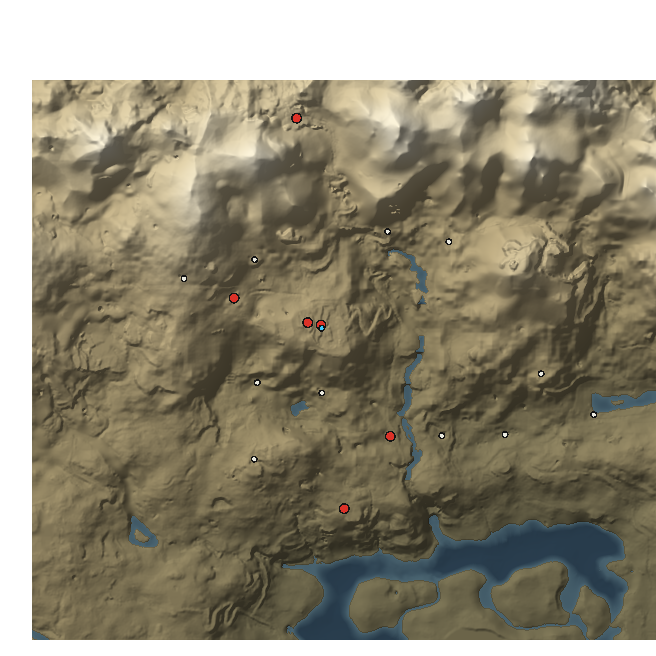
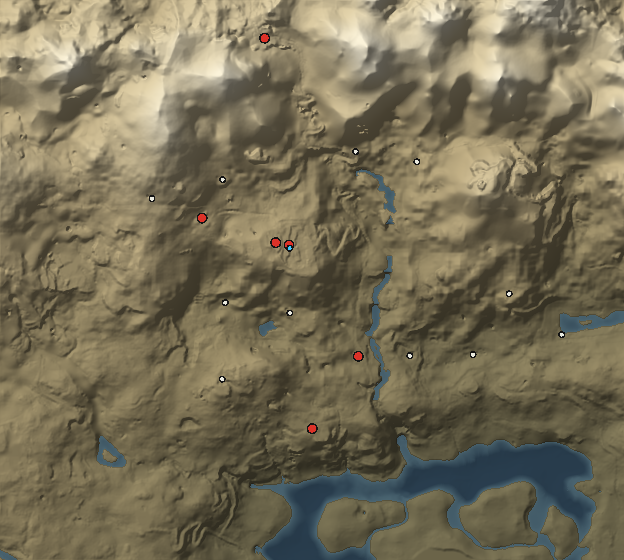
Capitals chosen by leaders; Companions without werewolves; the Silver Hand and Hircine's Pack of Falkreath; map cropped to land (Nate, 2026-09-27)
- realm.js: a leader (a hold's ruler) sets the faction's capital from the Realm tab (dbo:realmCapital): one of its
  territories (a hold: one in its own hold), or where the leader stands for a faction that is not a hold (indoors,
  the room). Not while at war, once every capitalChangeDays (7). Kept in wars.json capitals; staff /war seat writes
  the same, with no wait. Taking a hold's capital, chosen or not, takes the hold (holdCapital). The view sends the
  capitals a viewer may know of (secret factions only to their circle) and each leader's choices.
- guild-defs: the Companions' officers are Elders of Jorrvaskr (the Circle's werewolves were a fringe sect); new
  guild The Silver Hand; new secret pack Hircine's Pack of Falkreath (Skyrim's, beside the Jerall pack). Colours:
  Silver Hand #c7ccd4, the Falkreath pack #6b5a45 (picked, for Nate to change).
- tools/realm-map/render.py --crop-to-land: the Bruma render is cells -4,30 .. 34,64 with no empty edge.
- Patch note for client 0.3.51 (also covers the 02:12 deploy: bank cell, sleep, wisp stalks, wells).
realm-harness 79/79; raids, economy, bank, help, officials pass.

diff --git a/realm.js b/realm.js
@@ -7,8 +7,13 @@
 // Official war (Nate, 2026-09-26):
 //   closed    war.enabled (off by default) opens it; until the holds and factions are set up in the alpha nobody declares
 //             and no battle runs. The map, owners and treaties work either way.
-//   muster    every online member of the declaring faction must stand at its seat: staff's (/war seat), else its capital
-//             (the capital's marker within musterRadius, 3000, or inside one of its seatCells, e.g. Castle Bruma's rooms).
+//   capital   a faction's leader sets its capital from the Realm tab (Nate, 2026-09-27): one of its own territories (a
+//             hold: one in its own hold), or, for a faction that is not a hold, the spot where the leader stands (a
+//             guildhall, indoors or out). Not while it is at war, and once every capitalChangeDays (7). A hold without a
+//             choice has its capital territory (Bruma). Taking a hold's capital, chosen or not, takes the hold. Staff
+//             set one for anyone with /war seat, with no wait.
+//   muster    every online member of the declaring faction must stand at its capital (the territory's marker within
+//             musterRadius, 3000, or inside one of its seatCells, e.g. Castle Bruma's rooms; or around the chosen spot).
 //   treaty    two leaders not at war may swear peace for 1 to 8 weeks; while it holds neither may declare on the other.
 //   declare   a faction's leader, or a hold's ruler for the hold's faction, names a defending faction and the territories
 //             it wants (the defender must own them). Both sides need minOnline (10) members online, the declarer pays
@@ -45,9 +50,9 @@ module.exports = (api) => {
     deathWar: true,
     // Off until the holds and factions are set up during the alpha (Nate, 2026-09-26): no declarations, no battles
     enabled: false,
-    // Where a faction musters to declare: a hold's capital (its marker's grounds within musterRadius, and its seatCells);
-    // any other faction's seat is staff's: seats { factionId: { world, pos, radius, cells: [cell descs] } }
-    musterRadius: 3000, seats: {},
+    // Where a faction musters to declare: its capital's grounds within musterRadius (and the territory's seatCells);
+    // config seats { factionId: { name, world, pos, radius, cells } } are staff defaults under what leaders choose
+    musterRadius: 3000, seats: {}, capitalChangeDays: 7,
     treatyMinWeeks: 1, treatyMaxWeeks: 8,
   }, cfg.war || {});
   const DAY = 86400000;
@@ -115,7 +120,7 @@ module.exports = (api) => {
     writeJson(OWNERS, owners());
     audit(`REALM ${territory(tid) ? territory(tid).name : tid} passes from ${nameOfFaction(prev)} to ${nameOfFaction(fid)} (${why})`);
     const t = territory(tid);
-    if (t && t.kind === 'capital' && prev !== fid) onCapitalTaken(t, prev, fid);
+    if (t && prev !== fid && (holdCapital(t.zone) || {}).id === t.id) onCapitalTaken(t, prev, fid);
   };
   const territoriesOf = (fid) => territories().filter((t) => ownerOf(t.id) === fid);
   const worldOf = (a) => { try { return String(mp.get(a, 'worldOrCellDesc') || ''); } catch (e) { return ''; } };
@@ -148,14 +153,20 @@ module.exports = (api) => {
     audit(`REALM ${nameOfFaction(fid)} took ${zone ? zone.name : t.zone}; its officials lost their ranks`);
     for (const a of onlineActors()) system(a, `${nameOfFaction(fid)} has taken ${t.name}. ${zone ? zone.name : 'The hold'} has fallen, and its officials are stripped of their ranks.`);
   };
+  // A hold's capital: the territory its faction chose, if it lies in the hold, else the one marked capital
+  const holdCapital = (zoneId) => {
+    const chosen = (wars().capitals || {})[holdFactionOf(zoneId)];
+    const t = chosen && chosen.territory ? territory(chosen.territory) : null;
+    return t && t.zone === zoneId ? t : territories().find((x) => x.zone === zoneId && x.kind === 'capital') || null;
+  };
   // A conqueror: the leader of a faction that holds a hold's capital and is not that hold's own faction
   globalThis.__dboConquerorLeads = (a, zoneId) => {
-    const cap = territories().find((t) => t.zone === zoneId && t.kind === 'capital');
+    const cap = holdCapital(zoneId);
     if (!cap) return false;
     const fid = ownerOf(cap.id);
     return !!fid && fid !== holdFactionOf(zoneId) && leads(a, fid);
   };
-  globalThis.__dboConqueredZonesLedBy = (a) => [...new Set(territories().filter((t) => t.kind === 'capital').map((t) => t.zone))].filter((z) => globalThis.__dboConquerorLeads(a, z));
+  globalThis.__dboConqueredZonesLedBy = (a) => [...new Set(territories().map((t) => t.zone))].filter((z) => z && globalThis.__dboConquerorLeads(a, z));
 
   // ---- wars ----------------------------------------------------------------------------------------------------------
   const wars = () => {
@@ -184,14 +195,56 @@ module.exports = (api) => {
   const windowChoices = (declaredAt) => slotsFrom(declaredAt + C.noticeDays * DAY).slice(0, 7);
 
   // ---- mustering at the capital ----------------------------------------------------------------------------------------
-  // A faction's seat: one staff set (/war seat, or config war.seats), else a hold's capital territory (its marker's grounds
-  // and its seatCells), else a capital the faction has taken
+  // A faction's capital: the one its leader (or staff) chose, else staff's config seat, else a hold's capital territory,
+  // else a capital territory it has taken. A chosen territory counts only while the faction holds it.
+  const fromTerritory = (t) => ({ name: t.name, territory: t.id, world: t.marker.world, pos: t.marker.pos, radius: C.musterRadius, cells: t.seatCells || [] });
   const seatOf = (fid) => {
-    const s = (wars().seats || {})[fid] || (C.seats || {})[fid];
-    if (s && s.world && Array.isArray(s.pos)) return { name: s.name || nameOfFaction(fid), world: s.world, pos: s.pos, radius: s.radius || C.musterRadius, cells: s.cells || [] };
+    const c = (wars().capitals || {})[fid] || (wars().seats || {})[fid] || (C.seats || {})[fid];
+    if (c && c.territory) {
+      const t = territory(c.territory);
+      if (t && ownerOf(t.id) === fid) return Object.assign(fromTerritory(t), { chosen: true });
+    } else if (c && c.world && Array.isArray(c.pos)) {
+      return { name: c.name || `${nameOfFaction(fid)}'s seat`, territory: null, world: c.world, pos: c.pos, radius: c.radius || C.musterRadius, cells: c.cells || [], chosen: true };
+    }
     const f = info(fid);
-    const cap = territories().find((t) => t.kind === 'capital' && (f && f.zone ? t.zone === f.zone : ownerOf(t.id) === fid));
-    return cap ? { name: cap.name, world: cap.marker.world, pos: cap.marker.pos, radius: C.musterRadius, cells: cap.seatCells || [] } : null;
+    const cap = f && f.zone ? holdCapital(f.zone) : null;
+    if (cap && ownerOf(cap.id) === fid) return fromTerritory(cap);
+    const won = territories().find((t) => t.kind === 'capital' && ownerOf(t.id) === fid);
+    return won ? fromTerritory(won) : (cap ? fromTerritory(cap) : null);
+  };
+  const isHold = (fid) => { const f = info(fid); return !!(f && f.zone && (f.kind === 'hold' || f.kind === 'stronghold')); };
+  // The territories a leader may make the capital: its own, and for a hold only those in its hold
+  const capitalChoices = (fid) => territoriesOf(fid).filter((t) => !isHold(fid) || t.zone === info(fid).zone);
+  const nextCapitalChange = (fid) => {
+    const c = (wars().capitals || {})[fid];
+    return c && c.setAt && !c.byStaff ? c.setAt + C.capitalChangeDays * DAY : 0;
+  };
+  // choice: a territory id, or 'here' for the leader's own spot
+  const setCapital = (a, fid, choice) => {
+    if (!leads(a, fid)) return { ok: false, text: 'Only a faction\'s leader, or a hold\'s ruler, sets its capital.' };
+    if (warOf(fid).length) return { ok: false, text: `${nameOfFaction(fid)} is at war; its capital cannot move until the war ends.` };
+    const wait = nextCapitalChange(fid);
+    if (wait > Date.now()) return { ok: false, text: `The capital moved not long ago; it can move again from ${whenText(wait)}.` };
+    let cap;
+    if (choice === 'here') {
+      if (isHold(fid)) return { ok: false, text: 'A hold\'s capital is one of its own territories.' };
+      const w = worldOf(a); const p = posOf(a);
+      if (!w || !Array.isArray(p)) return { ok: false, text: 'Your position is unknown.' };
+      const t = territoryAt(w, p);
+      const indoors = !territories().some((x) => sameWorld(w, x.marker.world));
+      const name = t && !indoors ? `${nameOfFaction(fid)}'s seat near ${t.name}` : `${nameOfFaction(fid)}'s hall`;
+      cap = { territory: null, name, world: w, pos: p.map((v) => Math.round(v)), radius: indoors ? 0 : C.musterRadius, cells: indoors ? [w] : [] };
+    } else {
+      const t = capitalChoices(fid).find((x) => x.id === choice);
+      if (!t) return { ok: false, text: isHold(fid) ? 'Choose one of your hold\'s own territories.' : 'Choose a territory your faction holds.' };
+      cap = { territory: t.id, name: t.name };
+    }
+    const d = wars(); d.capitals = d.capitals || {};
+    d.capitals[fid] = Object.assign(cap, { setAt: Date.now(), by: who(a) });
+    saveWars();
+    audit(`REALM ${who(a)} made ${cap.name} the capital of ${nameOfFaction(fid)}`);
+    for (const x of onlineOf(fid)) personal(x, `${nameOfFaction(fid)} has a new capital: ${cap.name}.`);
+    return { ok: true, text: `${cap.name} is the capital of ${nameOfFaction(fid)} now.` };
   };
   const atSeat = (a, seat) => {
     const w = worldOf(a);
@@ -202,7 +255,7 @@ module.exports = (api) => {
   // Nate, 2026-09-26: every online member of the declaring side must be at its capital
   const musterRefusal = (fid) => {
     const seat = seatOf(fid);
-    if (!seat) return `${nameOfFaction(fid)} has no seat to muster at; staff must set one before it can declare war.`;
+    if (!seat) return `${nameOfFaction(fid)} has no capital to muster at; its leader sets one in the Realm tab.`;
     const away = onlineOf(fid).filter((x) => !atSeat(x, seat));
     return away.length ? `Every member of ${nameOfFaction(fid)} who is online must be at ${seat.name} to declare war (${away.length} ${away.length === 1 ? 'is' : 'are'} elsewhere).` : '';
   };
@@ -432,19 +485,35 @@ module.exports = (api) => {
     goal: w.goal.map((g) => ({ id: g, name: (territory(g) || { name: g }).name, owner: nameOfFaction(ownerOf(g)) })),
     status: w.status, startsAt: w.startsAt, windows: w.windows, death: w.death, peace: w.peace || null, captures: w.captures.length,
   });
+  const capitalsSeenBy = (a) => {
+    const fids = new Set(territories().map((t) => holdFactionOf(t.zone)).concat(Object.keys(wars().capitals || {}), territories().map((t) => ownerOf(t.id))));
+    const out = [];
+    for (const fid of fids) {
+      const f = info(fid);
+      if (!f || (f.secret && !isAdmin(a) && !seesLayerOf(a, fid))) continue;
+      const seat = seatOf(fid);
+      if (!seat) continue;
+      const onMap = !seat.territory && territories().some((t) => sameWorld(seat.world, t.marker.world));
+      out.push({ faction: fid, factionName: nameOfFaction(fid), name: seat.name, territory: seat.territory || null, x: onMap ? seat.pos[0] : null, y: onMap ? seat.pos[1] : null });
+    }
+    return out;
+  };
   const realmView = (a) => {
     const led = factionsLedBy(a);
     return {
       territories: territories().map((t) => ({ id: t.id, name: t.name, kind: t.kind, owner: ownerOf(t.id), ownerName: nameOfFaction(ownerOf(t.id)),
         world: t.marker.world, x: t.marker.pos[0], y: t.marker.pos[1], icon: Number.isFinite(t.icon) ? t.icon : null })),
+      // Every faction's capital that this viewer may know of: a territory (crowned on the map) or a chosen spot
+      capitals: capitalsSeenBy(a),
       // Hidden layers: only members of a listed secret faction (and staff) are sent these
       secret: ((readJson(TERRITORIES, {}) || {}).secret || []).filter((t) => t && t.marker && Array.isArray(t.layer) && (isAdmin(a) || t.layer.some((f) => seesLayerOf(a, f))))
         .map((t) => ({ id: t.id, name: t.name, kind: t.kind || 'secret', layer: t.layer.filter((f) => isAdmin(a) || seesLayerOf(a, f)).map(nameOfFaction), x: t.marker.pos[0], y: t.marker.pos[1] })),
       // Map colours by faction: staff's lore table (config war.colours); a faction not in it shows grey until one is set
       colours: Object.assign({}, C.colours || {}),
       wars: live().filter((w) => memberOf(a, w.attacker) || memberOf(a, w.defender) || isAdmin(a)).map(warView),
-      leads: led.map((fid) => { const seat = seatOf(fid); const on = onlineOf(fid); return { id: fid, name: nameOfFaction(fid), treasury: globalThis.__dboTreasury ? globalThis.__dboTreasury.balance(fid) : 0, online: on.length, seat: seat ? seat.name : '', atSeat: seat ? on.filter((x) => atSeat(x, seat)).length : 0 }; }),
-      rules: { enabled: !!C.enabled, minOnline: C.minOnline, declareFee: C.declareFee, noticeDays: C.noticeDays, windowsPerWar: C.windowsPerWar, windowHours: C.windowHours, deathWar: C.deathWar, treatyMinWeeks: C.treatyMinWeeks, treatyMaxWeeks: C.treatyMaxWeeks },
+      leads: led.map((fid) => { const seat = seatOf(fid); const on = onlineOf(fid); return { id: fid, name: nameOfFaction(fid), treasury: globalThis.__dboTreasury ? globalThis.__dboTreasury.balance(fid) : 0, online: on.length, seat: seat ? seat.name : '', atSeat: seat ? on.filter((x) => atSeat(x, seat)).length : 0,
+        capital: seat ? seat.territory || '' : '', capitalChoices: capitalChoices(fid).map((t) => ({ id: t.id, name: t.name })), canSetHere: !isHold(fid), capitalChangeAt: nextCapitalChange(fid), atWar: warOf(fid).length > 0 }; }),
+      rules: { capitalChangeDays: C.capitalChangeDays, enabled: !!C.enabled, minOnline: C.minOnline, declareFee: C.declareFee, noticeDays: C.noticeDays, windowsPerWar: C.windowsPerWar, windowHours: C.windowHours, deathWar: C.deathWar, treatyMinWeeks: C.treatyMinWeeks, treatyMaxWeeks: C.treatyMaxWeeks },
       treaties: treaties().filter((t) => isAdmin(a) || memberOf(a, t.a) || memberOf(a, t.b)).map((t) => ({ a: t.a, aName: nameOfFaction(t.a), b: t.b, bName: nameOfFaction(t.b), until: t.until })),
       offers: (wars().offers || []).filter((o) => led.includes(o.to) || led.includes(o.from)).map((o) => ({ id: o.id, from: o.from, fromName: nameOfFaction(o.from), to: o.to, toName: nameOfFaction(o.to), weeks: o.weeks, mine: led.includes(o.to) })),
       // The factions a leader may offer a treaty to: every one that is not secret, and the land's owners
@@ -472,20 +541,26 @@ module.exports = (api) => {
   onUi('warSurrender', (a, args) => { if (fromPanel(a, args)) reply(a, surrender(a, args[1])); });
   onUi('treatyOffer', (a, args) => { if (fromPanel(a, args)) reply(a, offerTreaty(a, String(args[1] || ''), String(args[2] || ''), args[3])); });
   onUi('treatyAnswer', (a, args) => { if (fromPanel(a, args)) reply(a, answerTreaty(a, args[1], !!args[2])); });
+  onUi('realmCapital', (a, args) => { if (fromPanel(a, args)) reply(a, setCapital(a, String(args[1] || ''), String(args[2] || ''))); });
 
   // ---- staff ---------------------------------------------------------------------------------------------------------------
   registerChatCommand('war', (a, args) => {
     const [sub, x, y] = String(args || '').trim().split(/\s+/);
     if (sub === 'owner' && x && y) { if (!territory(x) || !info(y)) return personal(a, 'Usage: /war owner <territory> <faction id>'); setOwner(x, y, `set by ${display(a)}`); return personal(a, `${territory(x).name} now belongs to ${nameOfFaction(y)}.`); }
     if (sub === 'seat' && x) {
-      if (!info(x)) return personal(a, 'Usage: /war seat <faction id> [clear], standing where it musters');
-      const d = wars(); d.seats = d.seats || {};
-      if (y === 'clear') { delete d.seats[x]; saveWars(); return personal(a, `${nameOfFaction(x)} has no seat of its own now.`); }
-      const p = posOf(a); const w = worldOf(a);
-      if (!Array.isArray(p) || !w) return personal(a, 'Your position is unknown.');
-      d.seats[x] = { name: `${nameOfFaction(x)}'s seat`, world: w, pos: p.map((v) => Math.round(v)), radius: C.musterRadius, cells: [] };
-      saveWars(); audit(`WAR seat of ${x} set by ${who(a)} at ${w} ${d.seats[x].pos.join(',')}`);
-      return personal(a, `${nameOfFaction(x)} musters here now, within ${C.musterRadius} units.`);
+      if (!info(x)) return personal(a, 'Usage: /war seat <faction id> [clear | <territory id>], standing where it musters');
+      const d = wars(); d.capitals = d.capitals || {};
+      if (y === 'clear') { delete d.capitals[x]; if (d.seats) delete d.seats[x]; saveWars(); return personal(a, `${nameOfFaction(x)} has no chosen capital now.`); }
+      if (y && territory(y)) {
+        d.capitals[x] = { territory: y, name: territory(y).name, setAt: Date.now(), by: who(a), byStaff: true };
+      } else {
+        const p = posOf(a); const w = worldOf(a);
+        if (!Array.isArray(p) || !w) return personal(a, 'Your position is unknown.');
+        const indoors = !territories().some((t) => sameWorld(w, t.marker.world));
+        d.capitals[x] = { territory: null, name: `${nameOfFaction(x)}'s seat`, world: w, pos: p.map((v) => Math.round(v)), radius: indoors ? 0 : C.musterRadius, cells: indoors ? [w] : [], setAt: Date.now(), by: who(a), byStaff: true };
+      }
+      saveWars(); audit(`WAR capital of ${x} set by ${who(a)}: ${d.capitals[x].name}`);
+      return personal(a, `${nameOfFaction(x)}'s capital is ${d.capitals[x].name} now.`);
     }
     if (sub === 'end' && x) { const w = live().find((q) => q.id === Number(x)); if (!w) return personal(a, 'No such war.'); endWar(w, `ended by staff (${display(a)})`); return personal(a, 'Ended.'); }
     personal(a, `Territories: ${territories().map((t) => `${t.name} (${nameOfFaction(ownerOf(t.id))})`).join(', ') || 'none'}`);
@@ -493,10 +568,10 @@ module.exports = (api) => {
     personal(a, ws.length ? ws.map((w) => `#${w.id} ${nameOfFaction(w.attacker)} vs ${nameOfFaction(w.defender)} [${w.status}] for ${w.goal.join(', ')}; windows ${w.windows.map((q) => whenText(q.start)).join(', ')}${w.death ? `; death ${w.death}` : ''}`).join(' | ') : 'No wars.');
     const ts = treaties();
     if (ts.length) personal(a, `Treaties: ${ts.map((t) => `${nameOfFaction(t.a)} and ${nameOfFaction(t.b)} until ${whenText(t.until)}`).join(' | ')}`);
-    personal(a, `War is ${C.enabled ? 'open' : 'closed (war.enabled is off)'}. Staff: /war owner <territory> <faction id>, /war end <war id>, /war seat <faction id> [clear]`);
-  }, { admin: true, help: '[owner <territory> <faction> | end <id> | seat <faction> [clear]] territories, owners, wars and seats' });
+    personal(a, `War is ${C.enabled ? 'open' : 'closed (war.enabled is off)'}. Staff: /war owner <territory> <faction id>, /war end <war id>, /war seat <faction id> [clear | <territory id>]`);
+  }, { admin: true, help: '[owner <territory> <faction> | end <id> | seat <faction> [clear | <territory>]] territories, owners, wars and capitals' });
 
   every('realm', C.tickMs, () => { try { tick(); } catch (e) { log('realm: tick failed', e.message); } });
   log(`realm loaded: ${territories().length} territories, ${live().length} war(s) under way, war ${C.enabled ? 'OPEN' : 'closed (war.enabled false)'}`);
-  return { declare, answerDeath, proposePeace, answerPeace, surrender, tick, ownerOf, territoryAt, realmView, declareRefusal, windowChoices, setOwner, offerTreaty, answerTreaty, seatOf, musterRefusal };
+  return { declare, answerDeath, proposePeace, answerPeace, surrender, tick, ownerOf, territoryAt, realmView, declareRefusal, windowChoices, setOwner, offerTreaty, answerTreaty, seatOf, musterRefusal, setCapital, holdCapital };
 };

diff --git a/tests/realm-harness.js b/tests/realm-harness.js
@@ -3,8 +3,8 @@
 // weeks before the same war again), the week's notice and three evening windows, capture only inside a window and only
 // with no defender at the marker, the capital falling (officials lose their ranks, the winner's leader may appoint),
 // peace with tribute, surrender, the war to the death (only if accepted, only in a window, only on contested land), a
-// hot reload, war closed while war.enabled is off, every online member mustered at the seat to declare, and peace
-// treaties that bar a declaration while they hold. Run it from this folder's parent with
+// hot reload, war closed while war.enabled is off, every online member mustered at the seat to declare, peace
+// treaties that bar a declaration while they hold, and capitals the leaders choose (conquest follows them). Run it from this folder's parent with
 //
 //   node tests\realm-harness.js
 'use strict';
@@ -93,7 +93,7 @@ check('the Count on the castle grounds and the court in the Great Hall are muste
 pos.set(COUNT, marker('bruma').map((v, i) => (i === 0 ? v + 3500 : v)));
 check('one step outside the grounds is not', /1 is elsewhere/.test(realm.musterRefusal('county-bruma')));
 for (const a of bruma) { world.set(a, W); pos.set(a, [0, 0, 0]); }
-check('a faction with no seat cannot declare', /has no seat/.test(realm.musterRefusal('nobody')));
+check('a faction with no capital cannot declare', /has no capital to muster at/.test(realm.musterRefusal('nobody')));
 api.isAdmin = () => true;
 pos.set(COUNT, [111, 222, 333]); world.set(COUNT, W);
 handlers.get('/war')(COUNT, 'seat county-bruma');
@@ -220,6 +220,30 @@ check('after four weeks it lapses', realm.realmView(GM).treaties.length === 0 &&
 realm.offerTreaty(COUNT, 'county-bruma', 'fighters-guild', 2);
 const offer2 = realm.realmView(GM).offers[0];
 check('a refused offer is gone and binds nobody', realm.answerTreaty(GM, offer2.id, false).ok && realm.realmView(GM).offers.length === 0 && realm.realmView(GM).treaties.length === 0);
+
+// Capitals: set by the leader, a hold among its own territories, once a week; conquest follows a moved capital
+now += DAY;
+check('only the leader sets the capital', !realm.setCapital(GM + 1, 'fighters-guild', 'here').ok);
+check('a hold picks one of its own territories, never another\'s or a spot', !realm.setCapital(COUNT, 'county-bruma', 'applewatch').ok && /one of its own territories/.test(realm.setCapital(COUNT, 'county-bruma', 'here').text));
+check('the Count moves the capital to Greenwood', realm.setCapital(COUNT, 'county-bruma', 'greenwood').ok && realm.seatOf('county-bruma').name === 'Greenwood' && realm.holdCapital('bruma').id === 'greenwood');
+check('the members online are told', out.personal.some((x) => x.a === 2 && /new capital: Greenwood/.test(x.t)));
+check('the capital moves once a week at most', /can move again from/.test(realm.setCapital(COUNT, 'county-bruma', 'pale-pass').text));
+pos.set(GM, [70000, 190000, 0]); world.set(GM, W);
+check('a guild leader makes the spot they stand on its seat', realm.setCapital(GM, 'fighters-guild', 'here').ok && /^Fighters Guild's seat near /.test(realm.seatOf('fighters-guild').name));
+const caps = realm.realmView(GM).capitals;
+check('the view lists the hold\'s capital territory and the guild\'s seat with its map spot', caps.some((c) => c.faction === 'county-bruma' && c.territory === 'greenwood') && caps.some((c) => c.faction === 'fighters-guild' && c.territory === null && c.x === 70000 && c.y === 190000), JSON.stringify(caps));
+const mine = realm.realmView(COUNT).leads[0];
+check('the Count\'s panel offers the hold\'s territories, no spot, and says when the next move is allowed', mine.capital === 'greenwood' && mine.capitalChoices.map((c) => c.id).sort().join() === 'bruma,greenwood,pale-pass' && mine.canSetHere === false && mine.capitalChangeAt > now);
+world.set(GM, '1234:BSHeartland.esm'); now += 8 * DAY;
+check('indoors the seat is the room itself', realm.setCapital(GM, 'fighters-guild', 'here').ok && realm.seatOf('fighters-guild').cells[0] === '1234:BSHeartland.esm' && realm.seatOf('fighters-guild').name === 'Fighters Guild\'s hall');
+check('an indoor seat has no spot on the map', realm.realmView(GM).capitals.find((c) => c.faction === 'fighters-guild').x === null);
+world.set(GM, W);
+officials = { bruma: { count: [1] } };
+realm.setOwner('bruma', 'fighters-guild', 'test');
+check('Bruma city is only land once the capital has moved', !!officials.bruma);
+realm.setOwner('greenwood', 'fighters-guild', 'test');
+check('taking the chosen capital takes the hold', !officials.bruma && globalThis.__dboConquerorLeads(GM, 'bruma') === true);
+realm.setOwner('bruma', 'county-bruma', 'test reset'); realm.setOwner('greenwood', 'county-bruma', 'test reset');
 
 // Hidden layers: a cult's shrine only for its members
 globalThis.__dboGuildsOf = (a) => (fighters.includes(a) ? [{ id: 'fighters-guild', role: a === GM ? 'leader' : 'member' }] : a === 5 ? [{ id: 'cult-namira', role: 'member' }] : []);

diff --git a/tools/realm-map/render.py b/tools/realm-map/render.py
@@ -494,6 +494,8 @@ def main():
     ap.add_argument("--ambient", type=float, default=0.45, help="brightness of a slope facing away from the light (0..1)")
     ap.add_argument("--name", default="bruma", help="output base name (default bruma)")
     ap.add_argument("--out", default=os.path.join(HERE, "out"), help="output folder")
+    ap.add_argument("--crop-to-land", action="store_true",
+                    help="drop edge rows and columns of cells that have no LAND, so the image is all landscape")
     ap.add_argument("--check", nargs="*", default=["Bruma", "Castle Bruma", "Applewatch", "Greenwood", "Aleswell",
                                                     "Pale Pass"],
                     help="places to mark in red on the debug image and print (LCTN name or editor id)")
@@ -523,6 +525,13 @@ def main():
     print("LAND overrides after %s: %s" % (world_id[0], overridden or "none"))
     for g, a, b in world.land_conflicts:
         print("  cell %s has two LAND records: %06X:%s and %06X:%s" % (g, a[1], a[0], b[1], b[0]))
+
+    if args.crop_to_land:
+        landed = [g for g in world.land_at if cx0 <= g[0] <= cx1 and cy0 <= g[1] <= cy1]
+        if landed:
+            cx0, cx1 = min(g[0] for g in landed), max(g[0] for g in landed)
+            cy0, cy1 = min(g[1] for g in landed), max(g[1] for g in landed)
+            print("cropped to the cells with LAND: %d,%d .. %d,%d" % (cx0, cy0, cx1, cy1))
 
     w, h, rows, info, field = render(world, cx0, cy0, cx1, cy1, args.ppc, args.zfactor, ambient=args.ambient)
     upp = CELL / args.ppc

diff --git a/tools/realm-map/README.md b/tools/realm-map/README.md
@@ -9,7 +9,7 @@ and no borders; the map window adds territories, names and icons on top.
 On CT 115 (plugins in `/opt/skyrim-data`), from the root of the `server` repo:
 
 ```
-python3 tools/realm-map/render.py                     # Cyrodiil around Bruma: radius 20 cells, 16 px per cell -> out/bruma.*
+python3 tools/realm-map/render.py --crop-to-land      # Cyrodiil around Bruma (the in-game map): 16 px per cell -> out/bruma.*
 python3 tools/realm-map/render.py --name bruma-24 --ppc 24
 python3 tools/realm-map/render.py --world 3c:Skyrim.esm --name whiterun --centre 20000 -10000 --radius 10
 ```
@@ -18,6 +18,7 @@ python3 tools/realm-map/render.py --world 3c:Skyrim.esm --name whiterun --centre
 |---|---|---|
 | `--world` | `a764b:BSHeartland.esm` | worldspace as `localid:Plugin`, the form the gameplay code already uses |
 | `--centre X Y` | `57750 202700` (Bruma) | game position; the region is the cell holding it plus `--radius` cells on every side |
+| `--crop-to-land` | off | drop the edge rows and columns of cells with no LAND; Bruma is then -4,30 .. 34,64 (624 x 560), since the worldspace ends north of Pale Pass. The front's `BRUMA_MAP.bounds` must match the new bounds in the JSON |
 | `--radius` | `20` | so the default region is 41 x 41 cells (-6,29 .. 34,69) |
 | `--ppc` | `16` | pixels per cell (4096 game units); 16 gives 256 units per pixel, 656 x 656 px for the default |
 | `--zfactor`, `--ambient` | `1`, `0.45` | hillshade exaggeration, brightness of slopes turned away from the light |

diff --git a/WAR_DESIGN.md b/WAR_DESIGN.md
@@ -96,6 +96,11 @@ A tab of the faction panel (F3), beside Members and War (Nate, 2026-09-26: no ne
 **Closed during the alpha** (Nate, 2026-09-26): war and raids stay switched off (`war.enabled`, `raids.enabled`) until
 the holds and factions are set up. The map, the owners, the treasury and peace treaties work meanwhile.
 
+0. **Capital** (Nate, 2026-09-27). A faction's leader, or a hold's ruler, chooses the capital in the Realm tab: one of its
+   own territories (a hold: one in its own hold), or, for a faction that is not a hold, the spot where the leader stands
+   (indoors, the room itself). Once every 7 days, never while at war; staff set any faction's with `/war seat`. A hold
+   that has not chosen keeps its capital territory. Taking a hold's capital, chosen or not, takes the hold. The map
+   crowns capital territories and marks seats with a banner in the faction's colour.
 0. **Muster.** Every member of the declaring faction who is online must be at its capital when it declares (Nate,
    2026-09-26). A hold's capital is its capital territory: the grounds around the land marker (3000 units) and the
    castle's own rooms (for Bruma, Castle Bruma's six interiors). Another faction musters at a seat staff set
